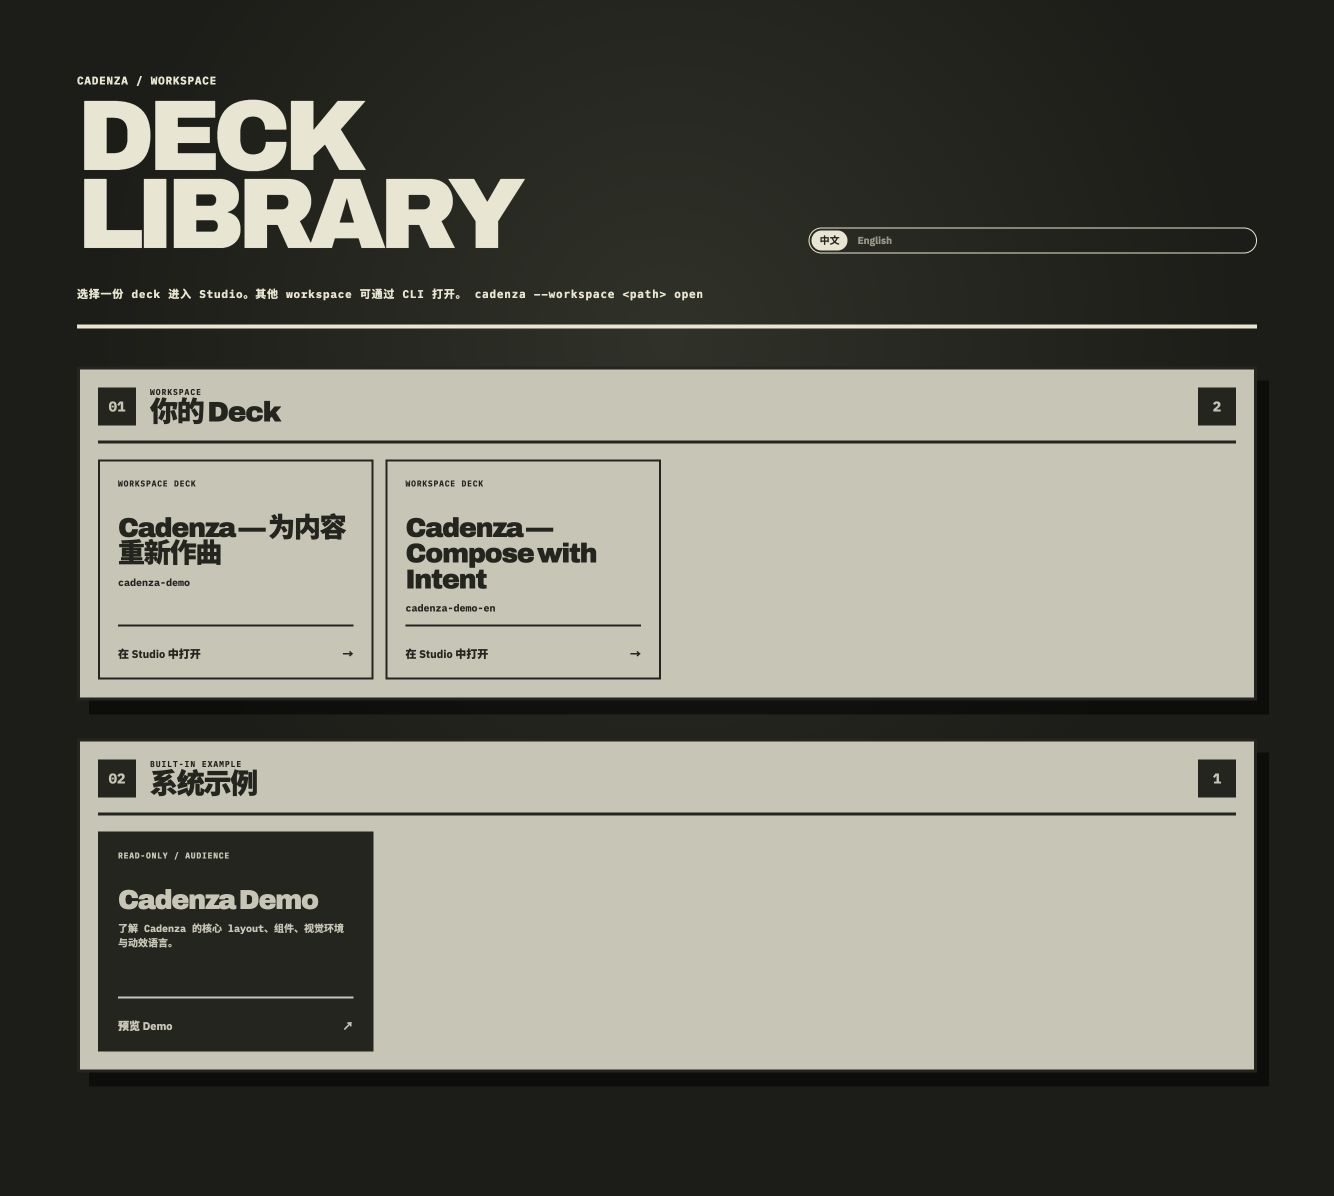
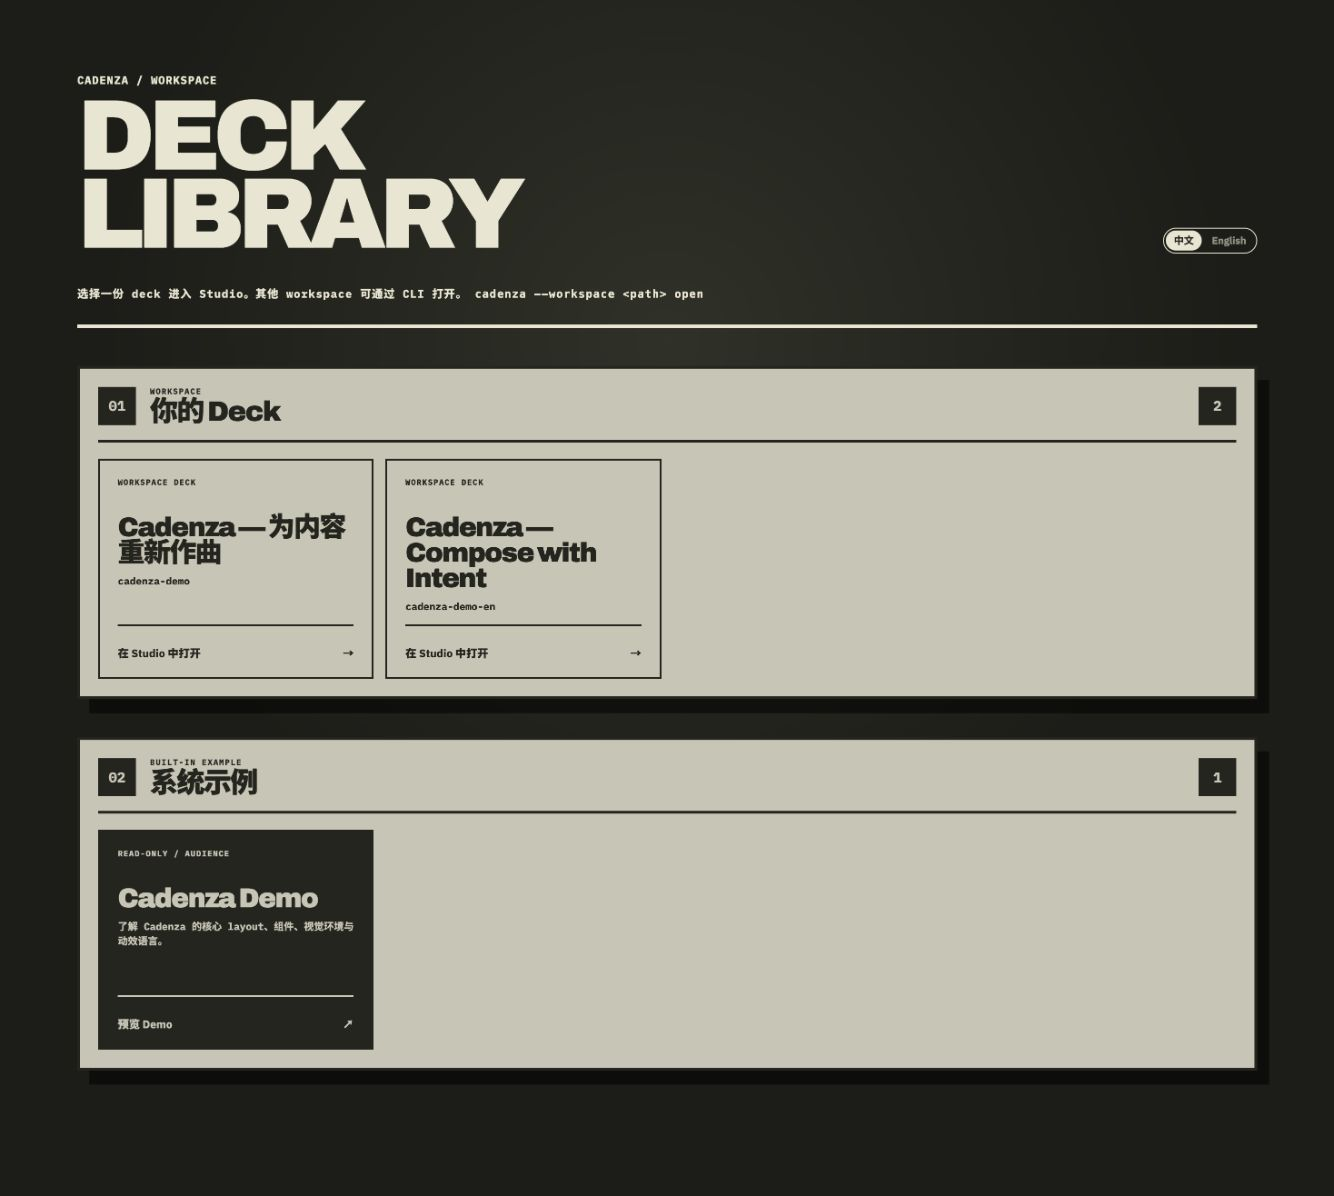
fix: keep locale switcher compact

diff --git a/src/styles/foundation.css b/src/styles/foundation.css
@@ -19,7 +19,7 @@
   font-synthesis: none;
 }
 
-.ui-locale-switcher { display: inline-flex; align-items: center; gap: 2px; padding: 2px; color: inherit; border: 1px solid currentColor; border-radius: 999px; font: 700 10px/1 var(--font-body); }
+.ui-locale-switcher { display: inline-flex; justify-self: end; align-items: center; width: max-content; gap: 2px; padding: 2px; color: inherit; border: 1px solid currentColor; border-radius: 999px; font: 700 10px/1 var(--font-body); }
 .ui-locale-switcher a { padding: 5px 8px; color: inherit; border-radius: 999px; text-decoration: none; opacity: .58; }
 .ui-locale-switcher a[aria-current="true"] { color: var(--paper); background: var(--ink); opacity: 1; }
 [data-app-mode="decks"] .ui-locale-switcher a[aria-current="true"] { color: var(--ink); background: var(--paper-bright); }

diff --git a/tests/e2e/ui-locale.spec.ts b/tests/e2e/ui-locale.spec.ts
@@ -4,6 +4,7 @@ test('keeps English UI chrome across Decks, Studio, Design Library, Overview, an
   await page.goto('/?view=decks&lang=en')
   await expect(page.locator('html')).toHaveAttribute('lang', 'en')
   await expect(page.getByRole('heading', { name: 'Your decks' })).toBeVisible()
+  expect((await page.locator('[data-ui-locale-switcher]').boundingBox())?.width).toBeLessThan(180)
 
   await page.goto('/?view=studio&deck=cadenza-demo&lang=en#/1')
   await expect(page.locator('html')).toHaveAttribute('lang', 'en')
